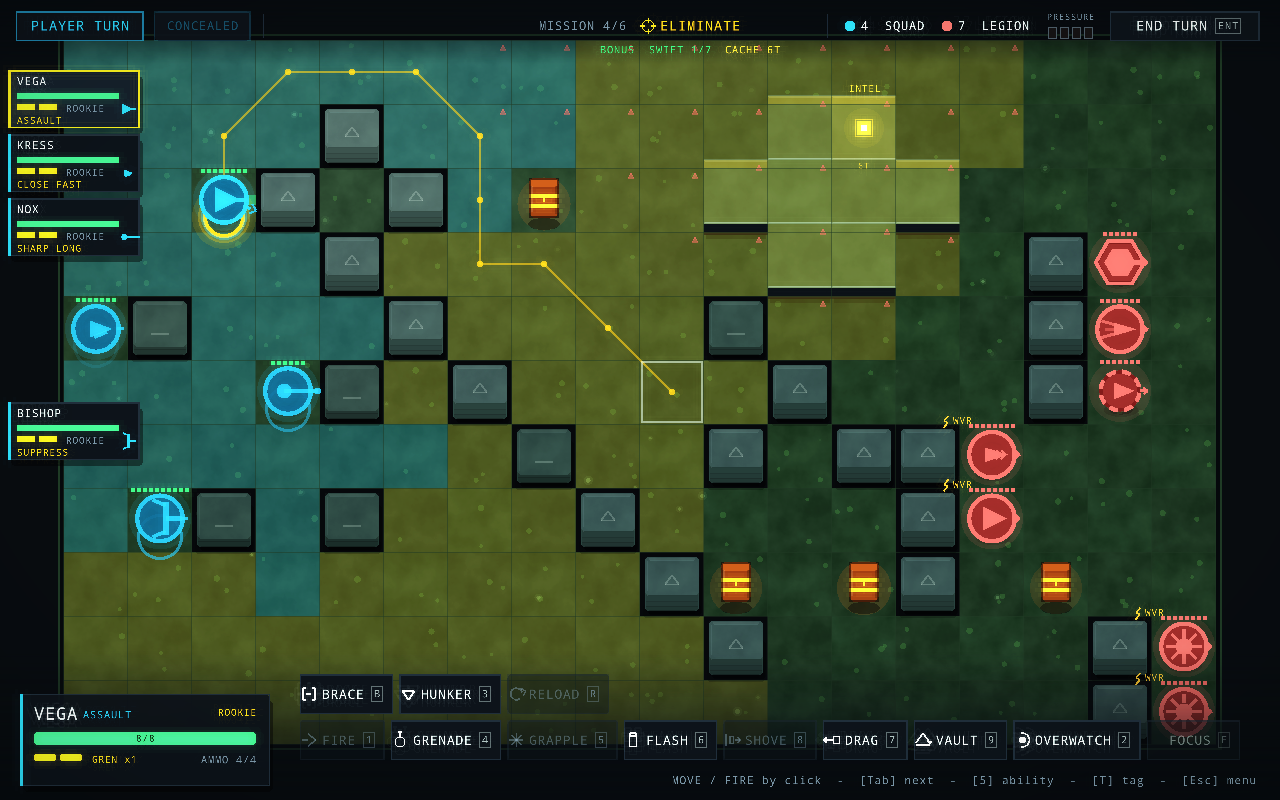
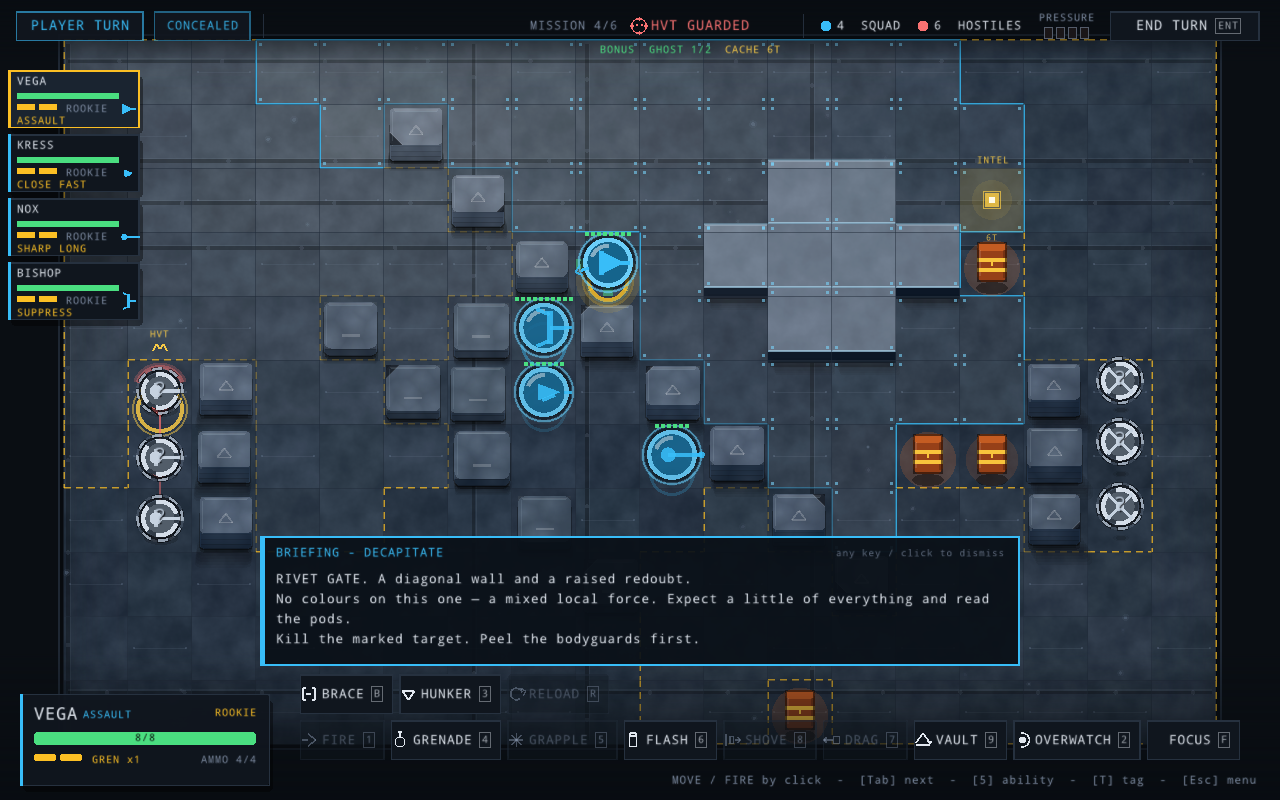
docs: README stops describing a game that no longer exists
Three claims were false:
- 'No art or audio asset files' - two OFL fonts ship, and the asset policy was
  relaxed this program. Now states what is actually generated vs committed, and
  points at THIRD-PARTY-NOTICES.txt.
- 'firing ends that soldier's turn' - untrue since PROGRAM TEMPO made a shot one
  action. That change is the game's core bet (where you stand AFTER shooting),
  and the README was describing the opposite game.
- 'every third mission is an extraction' - there are eight objectives, and since
  W4 the opening geometry varies too.

Replaced the stale 'Ideas for where to take it next' section - which listed
elevation, hand-authored maps, save/load and a wider roster, all built years of
waves ago - with an honest 'Where it stands' that names the current biggest gap
(the post-merge difficulty re-baseline) rather than pretending there isn't one.

Screenshot refreshed: the old frame predates every visual wave in this program.
The new one shows W4's deployment geometry (hostiles on both flanks), the
briefing, per-biome materials and the full verb bar.

diff --git a/README.md b/README.md
@@ -4,16 +4,21 @@ A compact, XCOM-style tactics game built in **C# + [Raylib](https://www.raylib.c
 Command a four-soldier squad on a grid battlefield: spend action points, use cover,
 flank the enemy, set overwatch, and wipe the hostiles before they wipe you.
 
-No art or audio asset files — the whole game is drawn from geometry, particles
-and screen-shake, and every sound effect is **synthesised procedurally at
-runtime**. It stays small, fast, and runs natively on Linux, macOS and Windows.
+Almost everything is generated: the board is geometry, particles, procedural
+textures and shaders, and every sound effect and music bed is **synthesised at
+runtime** — no recorded audio ships. The only committed binaries are two text
+fonts (Noto Mono and Chakra Petch, both SIL Open Font License 1.1, licence text
+in `THIRD-PARTY-NOTICES.txt`). It stays small, fast, and runs natively on Linux,
+macOS and Windows.
 
 ![SIGHTLINE gameplay](docs/screenshot.png)
 
 ## The game loop
 
-- **Two actions per soldier.** Move, then fire — firing ends that soldier's turn.
-  A double-move ("dash", shown in yellow) spends both actions.
+- **Two actions per soldier.** Firing costs one action and does *not* end the
+  turn, so **where you stand after shooting is the real bet** — shoot then
+  reposition, or spend the second action on a rushed follow-up shot. A
+  double-move ("dash") spends both actions.
 - **Cover is everything.** Stand beside a wall and incoming aim drops sharply
   (low cover −20, high cover −40). Get **flanked** — hit from a side your cover
   doesn't block — and you're exposed *and* far more likely to be crit.
@@ -40,9 +45,10 @@ A run is **six escalating missions** played with a single, persistent squad:
 - A **barracks debrief** between missions shows survivors, promotions, heals and
   the fallen — and **fresh rookies backfill** any empty slots so a bad mission
   doesn't doom the run — then deploys you to a tougher fight.
-- Missions vary by **objective**: most are *eliminate all hostiles*, but every
-  third is an *extraction* — get the whole squad to the marked EVAC zone (fight
-  through, or sneak past dormant pods).
+- Missions vary by **objective** — eliminate, extract, hack, escort, sabotage,
+  rescue, hold, decapitate — dealt so every route mixes them, and the **opening
+  geometry varies too**: a frontal push, a pincer, a crossfire, or an envelop
+  that starts you surrounded.
 - Lose the whole squad and the run ends; clear all six and the campaign is won.
 
 ### Soldiers & weapons
@@ -124,9 +130,21 @@ src/
   Util.cs       layout constants, palette, math/rng helpers
 ```
 
-## Ideas for where to take it next
+## Where it stands
 
-- More abilities + ammo types, additional enemy archetypes
-- Elevation / high ground and destructible high cover
-- Hand-authored maps and mission objectives (evac, VIP escort, hack-the-terminal)
-- Saving runs to disk; a wider roster with recruits replacing the fallen
+The tactical layer, the campaign, the meta profile and the presentation are all
+built. Recent work (PROGRAM RESONANCE) added a **TRAINING OP** and staged verb
+teaching, a **RECRUIT** difficulty below standard, an **incoming-fire forecast**
+that shows how many guns bear on a tile before you move there, generated
+**briefings and a run epilogue**, per-biome cover materials and terrain, and a
+real audio mix — plus a shippable self-contained build.
+
+Verification is by hand, by design: there is **no CI and there never will be**.
+`bash scripts/qa-sweep.sh --full` runs every self-test in the tree (it derives
+the list from `src/`, so a test that exists but is never run gets reported), and
+`SIGHTLINE_BALANCE=<N>` runs headless campaigns for balance telemetry.
+
+Open work — including a post-merge difficulty re-baseline, which is currently
+the biggest known gap — lives in [`docs/ROADMAP.md`](docs/ROADMAP.md); the
+per-wave history and every measured number is in
+[`docs/DEVLOG.md`](docs/DEVLOG.md).
